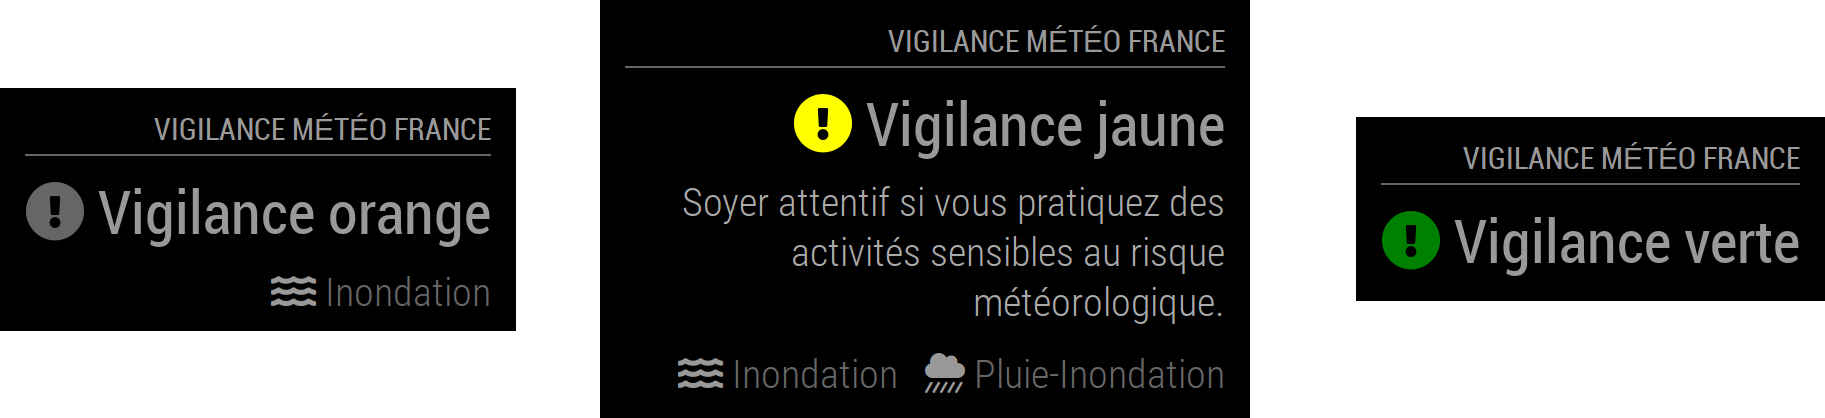
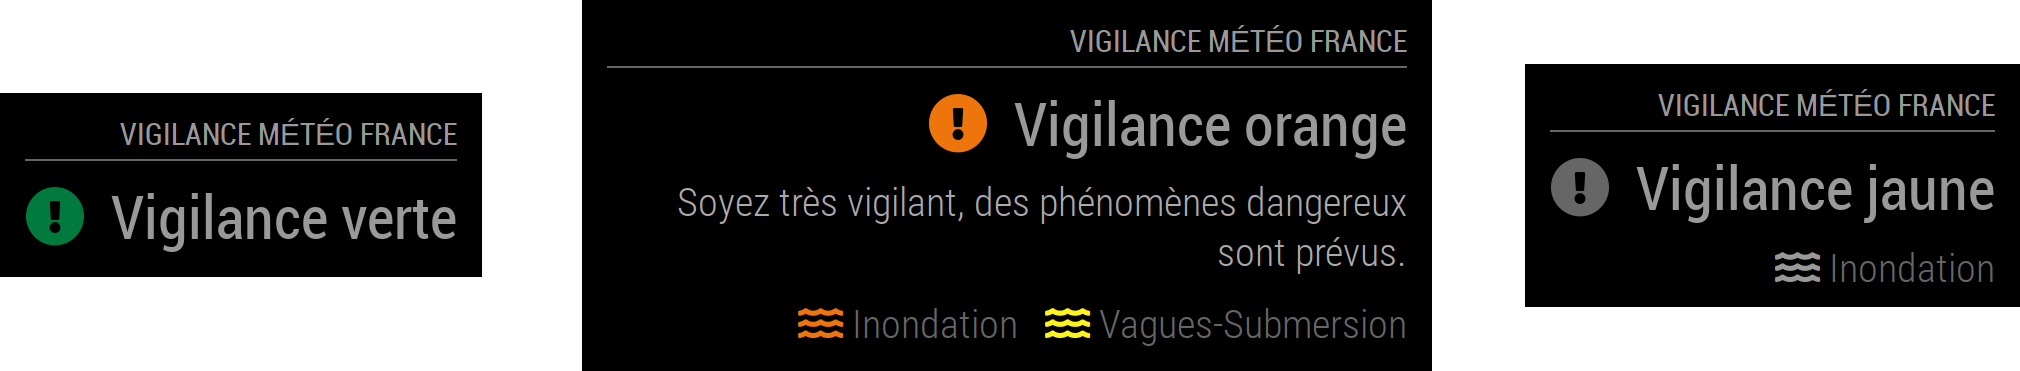
Integration of all risks
- Fix the bug for the risk " Vagues-submersion ".
- Manage risks at different levels.

diff --git a/MMM-VigilanceMeteoFrance.js b/MMM-VigilanceMeteoFrance.js
@@ -40,8 +40,8 @@ Module.register("MMM-VigilanceMeteoFrance",{
 		this.vigiWeatherLevel = null;
 		this.vigiWeatherTitle = null;
 		this.vigiWeatherDescription = null;
-		this.vigiWeatherColor = null;
 		this.vigiWeatherRisks = [];
+		this.vigiWeatherRisksLevel = [];
 		this.vigiWeatherRisksLegend = [];
 		this.vigiWeatherRisksIcon = [];
 		this.loaded = false;
@@ -51,6 +51,10 @@ Module.register("MMM-VigilanceMeteoFrance",{
 	// Override dom generator
 	getDom: function() {
 		var wrapper = document.createElement("div");
+
+		if (this.config.maxTextWidth != 0) {
+			wrapper.style = "max-width: " + this.config.maxTextWidth + "px;";
+		}
 
 		if (!this.config.department) {
 			wrapper.innerHTML = "Please set the vigilance <i>department</i> in the config for module: " + this.name + ".";
@@ -71,9 +75,13 @@ Module.register("MMM-VigilanceMeteoFrance",{
 
 		weatherIcon.className = "fas fa-exclamation-circle dimmed";
 		if (this.config.useColorLegend) {
-			weatherIcon.style = "color: " + this.vigiWeatherColor + ";";
+			weatherIcon.style = "color: " + this.level2color(this.vigiWeatherLevel) + ";";
 		}
 		medium.appendChild(weatherIcon);
+
+		var spacer = document.createElement("span");
+		spacer.innerHTML = "&nbsp;";
+		medium.appendChild(spacer);
 
 		var weatherText = document.createElement("span");
 		weatherText.innerHTML = " " + this.vigiWeatherTitle;
@@ -85,9 +93,6 @@ Module.register("MMM-VigilanceMeteoFrance",{
 			var weatherDescription = document.createElement('div');
 			weatherDescription.className = "light small description";
 
-			if (this.config.maxTextWidth != 0) {
-				weatherDescription.style = "max-width: " + this.config.maxTextWidth + "px;";
-			}
 			weatherDescription.innerHTML = this.vigiWeatherDescription;
 
 			wrapper.appendChild(weatherDescription);
@@ -106,14 +111,17 @@ Module.register("MMM-VigilanceMeteoFrance",{
 
 				var risksIcon = document.createElement('span');
 				risksIcon.className = "fas fa-" + this.vigiWeatherRisksIcon[i];
+				if (this.config.useColorLegend) {
+					risksIcon.style = "color: " + this.level2color(this.vigiWeatherRisksLevel[i]) + ";";
+				}
 				risks.appendChild(risksIcon);
 
-				var risksText = document.createElement("span");
-				risksText.className = "dimmed light";
 				if (this.config.showRiskLegend) {
-					risksText.innerHTML = " " + this.vigiWeatherRisksLegend[i];
+					var risksText = document.createElement("span");
+					risksText.className = "dimmed light";
+					risksText.innerHTML = "&nbsp;" + this.vigiWeatherRisksLegend[i];
+					risks.appendChild(risksText);
 				}
-				risks.appendChild(risksText);
 			}
 
 			wrapper.appendChild(risks);
@@ -163,10 +171,11 @@ Module.register("MMM-VigilanceMeteoFrance",{
 		}
 
 		if (data.risks.length > 0) {
-			this.vigiWeatherRisks = data.risks;
-
 			for (let i = 0; i < data.risks.length; i++) {
-				switch (data.risks[i]) {
+				this.vigiWeatherRisks.push(data.risks[i].id);
+				this.vigiWeatherRisksLevel.push(data.risks[i].level);
+
+				switch (data.risks[i].id) {
 					case 1:
 						this.vigiWeatherRisksLegend.push("Vent");
 						this.vigiWeatherRisksIcon.push("wind");
@@ -223,5 +232,23 @@ Module.register("MMM-VigilanceMeteoFrance",{
 			self.sendSocketNotification('CONFIG', self.config);
 		}, nextLoad);
 	},
+
+	// Convert vigilance's level to color
+	level2color: function(level) {
+		switch (level) {
+			case 1:
+				return "#007b3d";
+				break;
+			case 2:
+				return "#fff419";
+				break;
+			case 3:
+				return "#ee750c";
+				break;
+			case 4:
+				return "#b30000";
+				break;
+		}
+	}
 
 });

diff --git a/node_helper.js b/node_helper.js
@@ -30,23 +30,29 @@ module.exports = NodeHelper.create({
 			if (!error && response.statusCode === 200) {
 				parseXML(body, function (error, result) {
 						let data = result.CV.DV;
+						let risks = [];
+						let level = 1;
 
 						for (let i = 0; i < data.length; i++) {
-							if (data[i].$.dep == self.config.department) {
-								let risks = [];
+							if (data[i].$.dep == self.config.department || data[i].$.dep == (self.config.department + "10")) {
 								if(data[i].risque) {
 									for (let j = 0; j < data[i].risque.length; j++) {
-										risks.push(parseInt(data[i].risque[j].$.val));
+										risks.push({"id": parseInt(data[i].risque[j].$.val), "level": parseInt(data[i].$.coul)});
+										if(data[i].$.coul > level) {
+											level = parseInt(data[i].$.coul);
+										}
 									}
 								}
-
-								self.sendSocketNotification("DATA", JSON.stringify({
-									"department": parseInt(data[i].$.dep),
-									"level": parseInt(data[i].$.coul),
-									"risks": risks
-								}));
 							}
 						}
+
+						risks.sort((a, b) => Number(b.level) - Number(a.level));
+
+						self.sendSocketNotification("DATA", JSON.stringify({
+							"department": self.config.department,
+							"level": level,
+							"risks": risks
+						}));
 				});
 			}
 		});

diff --git a/README.md b/README.md
@@ -85,7 +85,7 @@ The following properties can be configured:
 
 ### Todo
 
-- [ ] Manage risks at different levels in the same department.
+- [x] Manage risks at different levels in the same department.
 - [ ] Display an notification at the start of the MagicMirror in case of vigilance level 2 to 4.
 - [ ] Display an notification in case of new risk.
 
